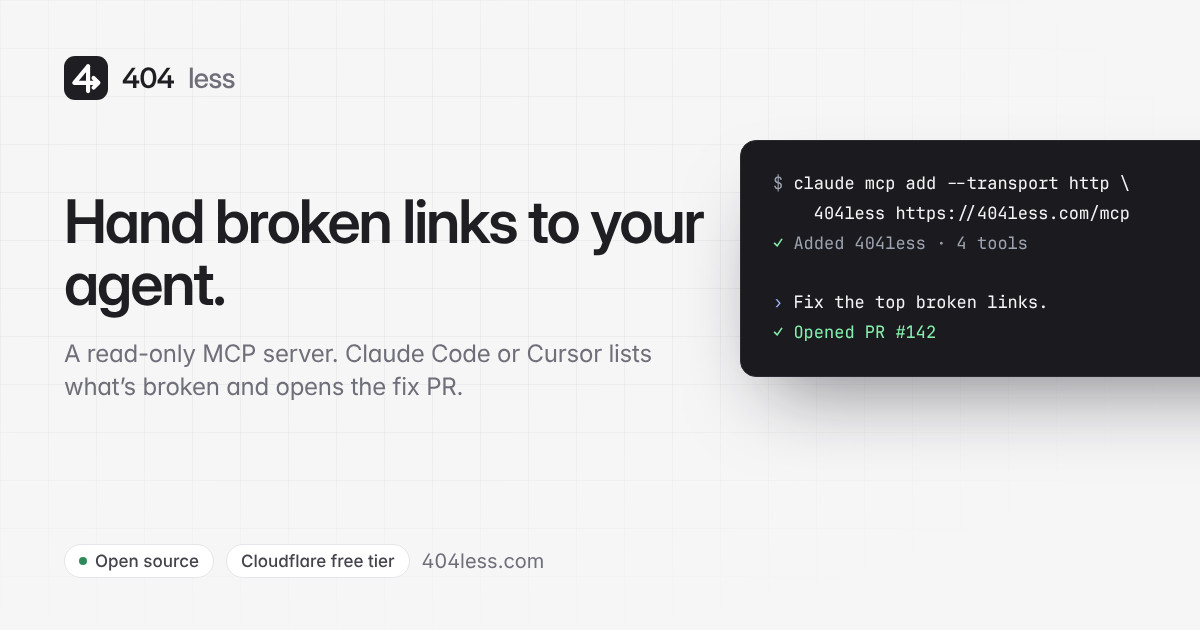
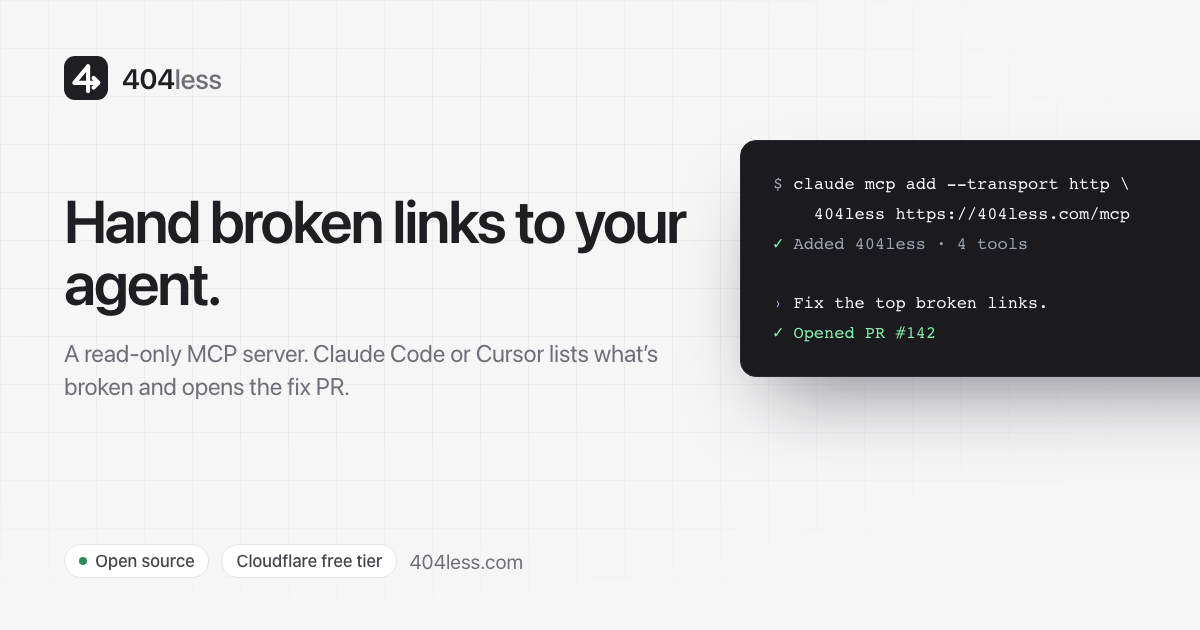
Site: "404less" wordmark as one word; build:og runs again
The brand's flex gap (for the mark) also landed between the "404" text node
and the "less" span, so the header, footer and every OG image read "404 less".
The word is now one .brand-word element; OG images re-rendered.

build:og required "playwright", which isn't installed; it now loads chromium
from @playwright/test.

diff --git a/site/layout.html b/site/layout.html
@@ -57,7 +57,7 @@
               <path d="m21.5 16 3.5 3.5-3.5 3.5" />
             </g>
           </svg>
-          404<span>less</span>
+          <span class="brand-word">404<span>less</span></span>
         </a>
         <nav class="nav-links" aria-label="Primary">
           <a href="/#how">How it works</a>
@@ -125,7 +125,7 @@
                 <path d="m21.5 16 3.5 3.5-3.5 3.5" />
               </g>
             </svg>
-            404<span>less</span>
+            <span class="brand-word">404<span>less</span></span>
           </a>
           <p style="margin-top: 12px; max-width: 300px">
             Broken links, found and fixed before your visitors give up.

diff --git a/site/og/template.html b/site/og/template.html
@@ -43,7 +43,7 @@
         width: 44px;
         height: 44px;
       }
-      .brand span {
+      .brand-word span {
         color: #6f6f7a;
         font-weight: 500;
       }
@@ -219,7 +219,7 @@
             <path d="m21.5 16 3.5 3.5-3.5 3.5" />
           </g>
         </svg>
-        404<span>less</span>
+        <span class="brand-word">404<span>less</span></span>
       </div>
       <div class="title" id="title"></div>
       <div class="sub" id="sub"></div>

diff --git a/site/assets/site.css b/site/assets/site.css
@@ -241,7 +241,8 @@ p {
   width: 28px;
   height: 28px;
 }
-.brand span {
+/* one word: the gap above is for the mark, never between "404" and "less" */
+.brand-word span {
   color: var(--muted);
   font-weight: 500;
 }
